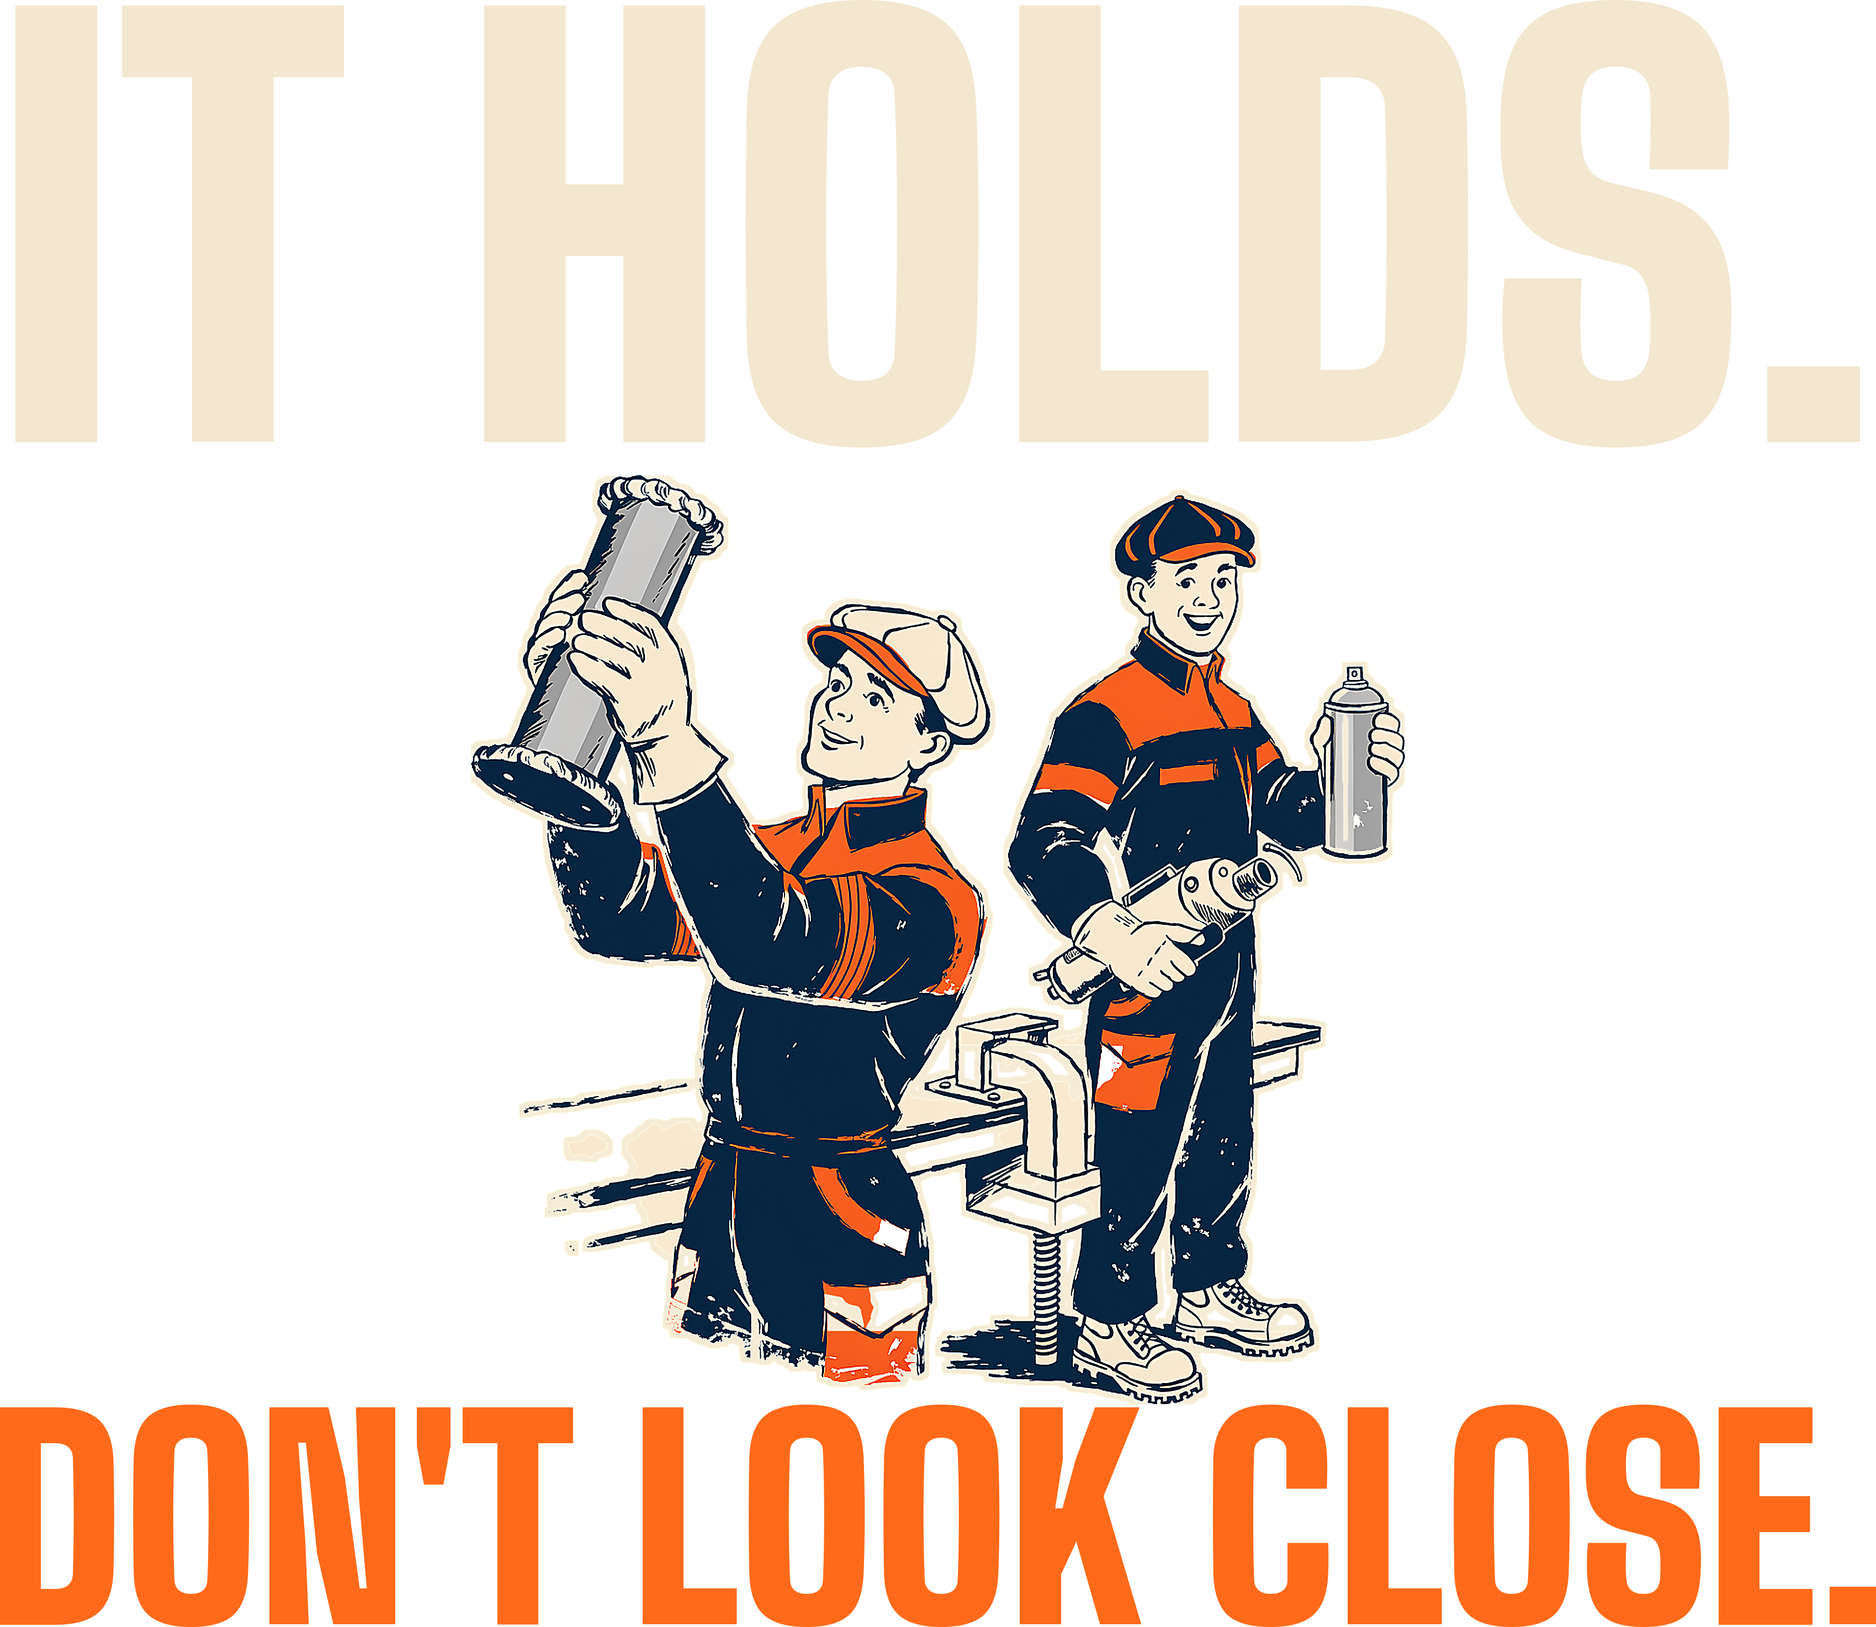
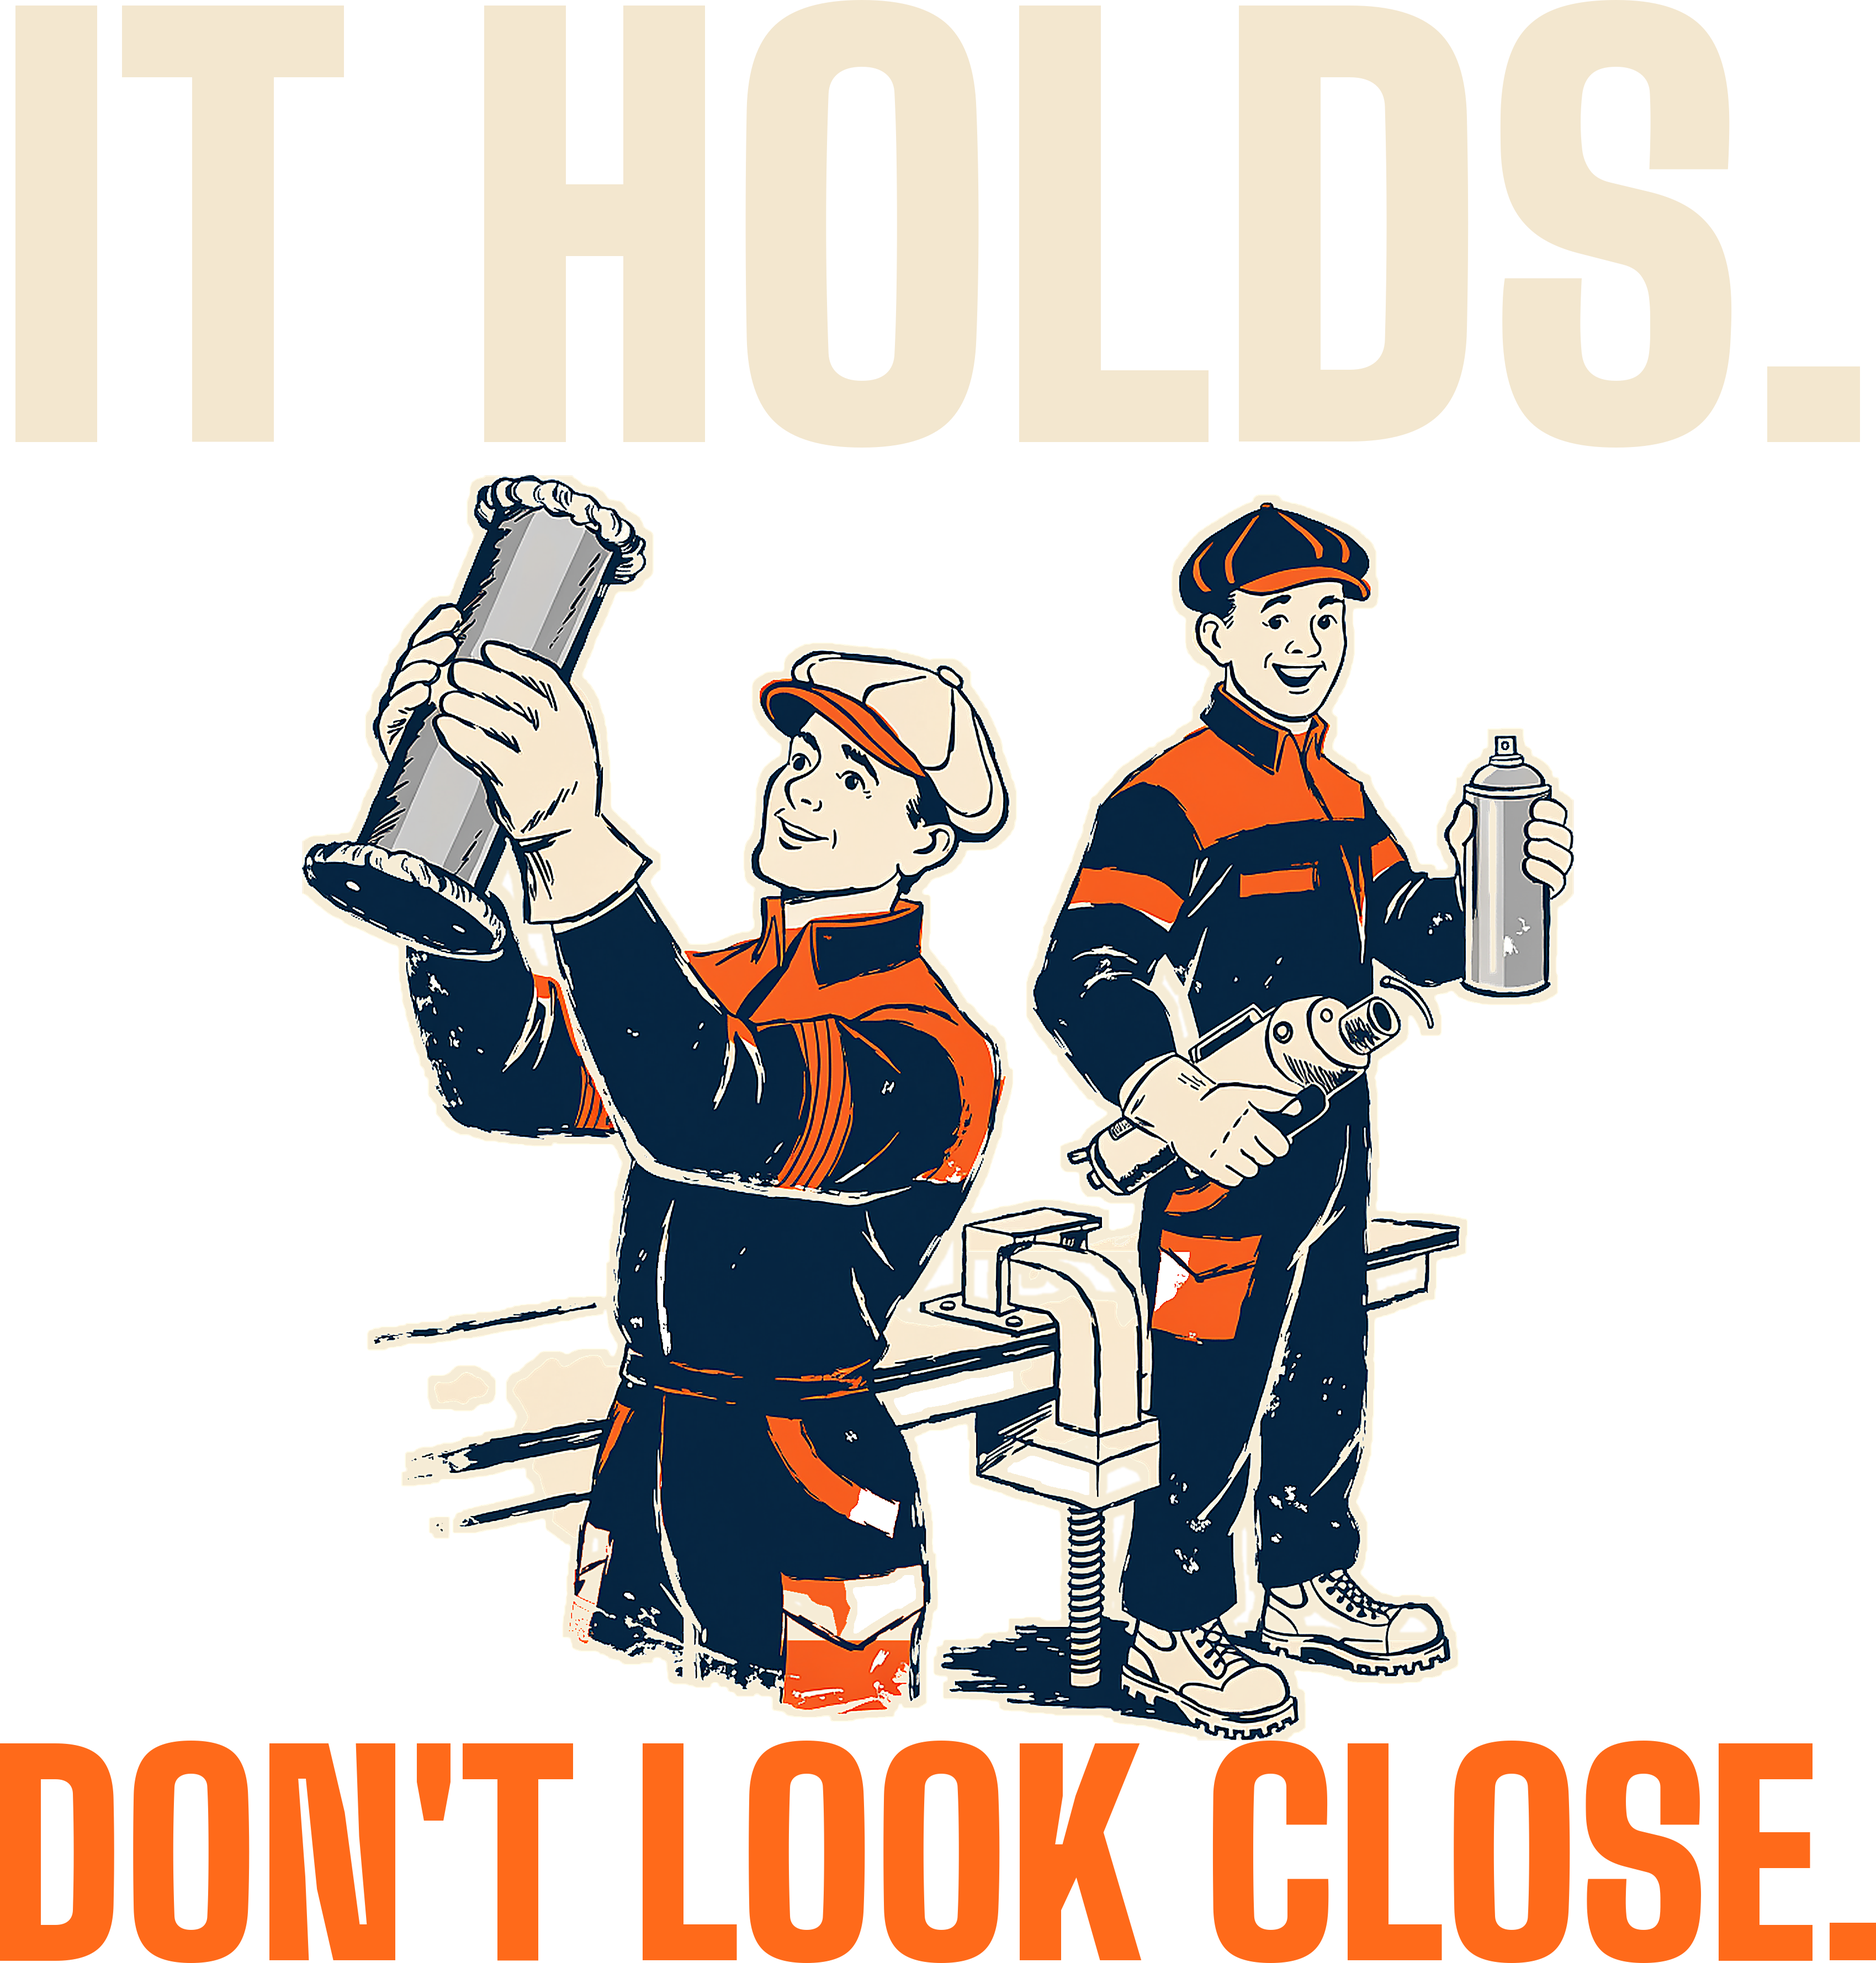
[B] review 530 round 2 (bigger welders)

diff --git a/docs/pipeline/530-welder-tee-grinder-and-paint.md b/docs/pipeline/530-welder-tee-grinder-and-paint.md
@@ -1,4 +1,4 @@
-status: REDO
+status: REVIEW
 lane: B
 type: new
 id: 530
@@ -37,3 +37,4 @@ kd: 23
 - 2026-10-18 17:22 UTC director: QUALITY RESET grade C (new line + type), REDO. The product stays ACTIVE (same handle, URL, title keyword). 1. Line (R3.12, quality-reset 'Lines'): "GRINDER & PAINT / DEPARTMENT / we make it look good": Insider welding joke needs explaining; thin serif plus script. Write 5 candidates, keep the one a stranger laughs at in 3 seconds without backstory; kill lines that only describe the picture; if none of the 5 is funny, PARK it. 2. Quality reset type bar (docs/backlog/quality-reset.md, 'The new bar'): headline at least 90% of the art width, heavy, colors pulled from the art; second line at least 45% of the headline's height, never a thin script on a dark or mid garment; use the lettering as a shape (arch, stacked lockup, words breaking into the art), not a plain bar above and a script line below; no font used on more than 1 in 6 of the last 30 designs. 3. Keep the art if it carries the new line, else one new illustration (R4/R5). New print means a new cover per R6.10, copy line one rewritten for the new joke (R8.3), and a fresh review sheet (R7.7). While quality-reset.md says PAUSED, only lane A builds, and only the samples step 2 names.
 - 2026-10-20 11:35 UTC builder [B]: REDO 530 (C grade, line + type) done in place (stays ACTIVE, handle unchanged; title now Men's Welder – It Holds, Don't Look Close Tee; SEO title/meta, copy and 6 FAQs 50-57 words rewritten). 5 candidates: 'GRINDER & PAINT DEPARTMENT' (old); 'IT HOLDS. / DON'T LOOK CLOSE.' (the brief's own fallback; the lumpy weld held up in the art is the proof, every shop says it); 'NOBODY'S PERFECT. WE HAVE A GRINDER.'; 'WELD NOW. GRIND LATER.'; 'STRONGER THAN IT LOOKS.'. Kept IT HOLDS. / DON'T LOOK CLOSE. Same art (no fal, $0), Big Shoulders Display 900 (0 of last 30). Headline above, punch below (7k): IT HOLDS. 3230 px / DON'T LOOK CLOSE. 3230 px = 100%; type 1213 px of 2948 px print height (41%), art scaled to 47%. Dark file only (all five colors dark; cream headline, safety orange punch, art keeps its built-in cream edge). FW 1650 TOP 75. Verified 35/35 on the new file (no old id), back logo kept. 5 fronts replaced in place with new alt. Phone-size read OK on all five. Cover: AI cover shows old words; handle already in retired-covers.json. Sheet docs/review/530.jpg. fal $0.
 - 2026-10-20 12:45 UTC director: REDO from docs/review/530.jpg (product stays ACTIVE). 1) Builder card 7l: the two welders sit at about 40% of the lockup width between IT HOLDS. and DON'T LOOK CLOSE.; scale them to at least 45% (the held-up weld must read at phone size, it is the proof of the joke) and let the lockup grow taller; log "subject <px> of <lockup px>". 2) R7.7: the ART panel shows the bare art on a cream box, not the composed print; remake the sheet from the print file. Line approved: IT HOLDS. / DON'T LOOK CLOSE.
+- 2026-10-20 13:17 UTC builder [B]: REDO 530 round 2 (director 12:45). 7l: welders scaled up, art width 47% to 64% of the 3600 px canvas; subject 2303 px of 3398 px lockup (68%, was about 40%); the lockup grew from 2948 to 3557 px tall (FW 1650 -> 2074 px, inside the 2400 px area). IT HOLDS. 3230 px and DON'T LOOK CLOSE. 3230 px unchanged, line approved. Re-linked 35/35 on the new file (no old id), 5 fronts replaced in place from new mockups (the held-up weld reads on the phone-size mockups). R7.7: sheet docs/review/530.jpg remade with the composed print in the ART panel. fal $0.

diff --git a/docs/intake-log.md b/docs/intake-log.md
@@ -1,4 +1,6 @@
 2026-10-20 13:58 UTC — [D] Director run: 6 LIVE (#451 #473 #485 #535 #318 #333, all approved earlier; audit PASS). Reviewed 11: 9 approved and held (#216 #408 #447 #509 #584 #591 #619 #655 #711), REDO #657 (line, R3.13) and #617 + #616 (Panicked. script punch, R3.7.8). Frenchie collection started: briefs #719–#721 (lane A: Christmas tee, crewneck, ornament) and #722–#723 (lane E: cropped hoodie, hoodie). READY now A 12+, B 12, C 15, E 12. No Telegram (digest went out at the 12:17 run; nothing needs Sam). Lock released.
+RUNNING director since 2026-10-20 13:09 UTC
+2026-10-20 13:17 UTC — [B] Builder run: #530 Welder tee round 2 (welders at 68% of the lockup width, sheet from the composed print), 35/35 synced. REVIEW. fal $0.
 RUNNING lane E since 2026-10-20 14:20 UTC
 2026-10-20 12:49 UTC — [H] Helper run: Telegram inbox empty (getUpdates returned 0 updates; nothing to consume). Audit 610 live products: 0 errors, 37 warnings left alone; committed docs/cohesion-audit.md and .json. Category check: 0 products without a Shopify category. Site check: womens-chihuahua-cold-since-birth-zip-hoodie, mens-pig-wallowing-respectfully-oversized-hoodie, womens-panda-endangered-patience-zip-hoodie and homepage all 200. Stuck-work: nothing BUILDING over 3h (5 items, newest commits 12:07–12:42). Lane A RUNNING line from 02:28 UTC still present (lines 201 and 207) but lane A committed at 12:41, so active; no repeat alert. Daily summary sent to Sam (first run after 12:00 UTC): 610 live, REVIEW 116, READY 50, REDO 17, PARKED 31, BUILDING 5, 12 items waiting on Sam. Note: origin/main was force-updated from 5615ff1 to 5479c90 when I fetched, so the [D] take lock commit was off main; the lock line was re-added below. Lock released.
 2026-10-20 13:07 UTC — [A] Builder run: built #617 Men's Christmas Drew Your Name. Panicked. crewneck (twin of #616: Sand takes the tee print, Navy own cream file with a cream outline around the cartoon, DRAFT 15369750249776, sync 483383802 12/12, mockups + variant images, plain product shot). REVIEW, stays DRAFT. fal $0.
